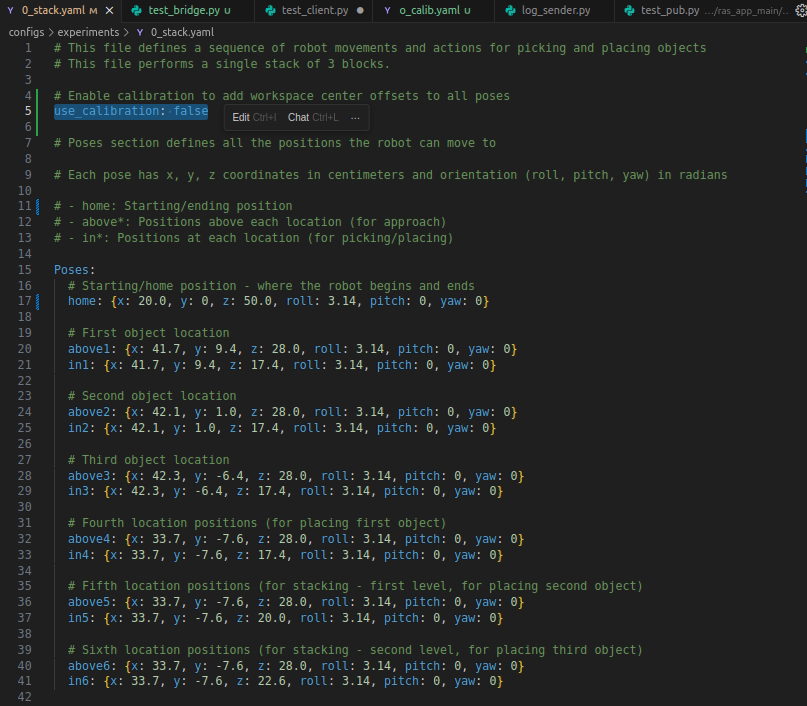
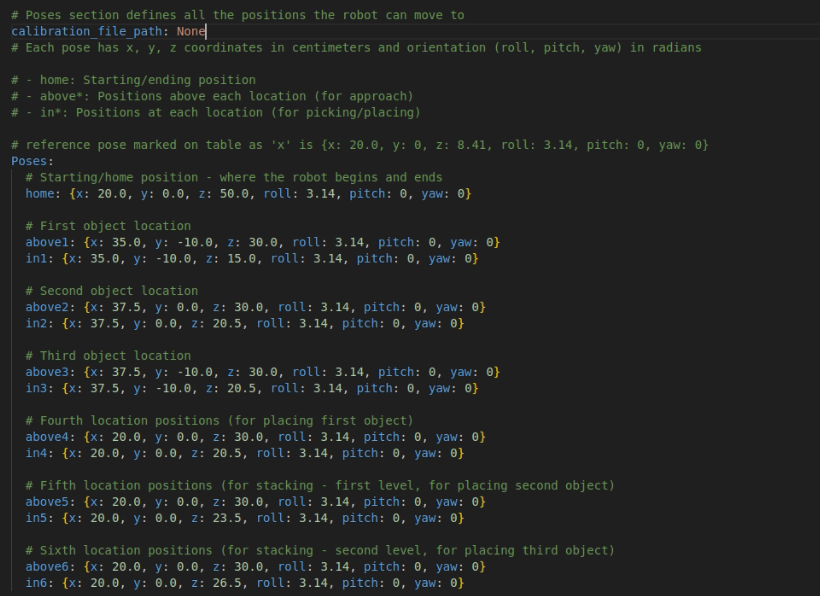
WIP3

diff --git a/RAS_Workspace_Calibration_readme.md b/RAS_Workspace_Calibration_readme.md
@@ -27,39 +27,59 @@ This document explains the workspace calibration process for the RAS (Robot Auto
 
 ## Calibration Process
 
-1. The `aruco_calibration.py` script (running in the robot's perception module) will:
-   - Detect the 4 ArUco markers
-   - Calculate the center point of the workspace i.e,(TARGET)
-   - Publish the calibrated workspace center (x, y, z in centimeters) to MQTT topic:
-     ```
-     robot/calibration_command
-     ```
+Launch the server application and robot application
 
-![calibration](images/calibration_2.jpg)
+```bash
+ras server run
+```
 
-2. The server application's `calibration_target_subscriber.py` will:
-   - Subscribe to the MQTT topic `robot/calibration_command`
-   - Receive the calibrated center point coordinates
-   - Store the data in `calibration_data.json`
+```bash
+ras robot run
+```
+next run the calibration command
+from server to trigger calibration script in robot
 
-![calibration](images/calibration_3.png)
+```bash
+ras_cli calibrate
+```
+ This will run the calibration script(aruco_calibration.py) in robot and keep sending the calibration data to server(in same terminal where calibration command is run).
+
+![markers](images/calibration_start.png)
+
+When the user is satisfied with the calibration data, the user can stop the calibration process by pressing 'Enter' key.
+The user will prompted to give a custom name for the calibration json file ,if user does not give a name, the default name will be used (xarm_calibration_{timestamp}.json).
+
+![markers](images/calibration_end.png)
+
+The calibration data is nothing but the center point of the workspace(4 ArUco markers) TARGET point mentioned in the image.
+
+![markers](images/calibration_2.jpg)
+
+When the calibration is running in robot, the server can view the live feed of the calibration process in the rqt_gui which is launched in the new window when the calibration command is run.
+
+![markers](images/calib_rqt1.png)
+
+Select the calibration topic(aruco_calibration/processed_image/compressed) to view the live feed of the calibration process.
+
+![markers](images/calib_rqt2.png)
+
 
 ## Using Calibration in Experiments
 
-In your experiment configuration file, you can enable or disable the use of calibration data using the `use_calibration` flag:
+In your experiment configuration file, you can enable or disable the use of calibration data using the `calibration_file_path` flag:
 
 ```yaml
-use_calibration: true  # or false
+calibration_file_path: test.json  # or None
 ```
 
 ### Behavior Based on Flag(example for same experiment file - 0_stack.yaml)
 
-- **When `use_calibration: false` (default):**
+- **When `calibration_file_path: None` (default):**
   - All object positions in the experiment file are relative to the robot's base_link (0,0,0)
 
 ![calibration](images/calibration_4.png)
 
-- **When `use_calibration: true`:**
+- **When `calibration_file_path: {custom_name/default_name}.json`:**
   - All object positions in the experiment file are relative to the calibrated workspace center point i.e,(TARGET example here x=34cm and y=0cm)
   - The system will automatically adjust coordinates based on the stored calibration data
 
@@ -71,12 +91,13 @@ The calibration data is stored in `calibration_data.json` with the following for
 
 ```json
 {
-    "workspace_center": {
-        "x": 0.0,
-        "y": 0.0,
-        "z": 0.0
+    "calibration": {
+        "x": 32,
+        "y": 0,
+        "z": 0,
+        "timestamp": "2025-06-09 15:16:30"
     },
-    "timestamp": "2025-05-25T11:02:22.123456"
+    "saved_at": "2025-06-09 15:16:31"
 }
 ```
 
